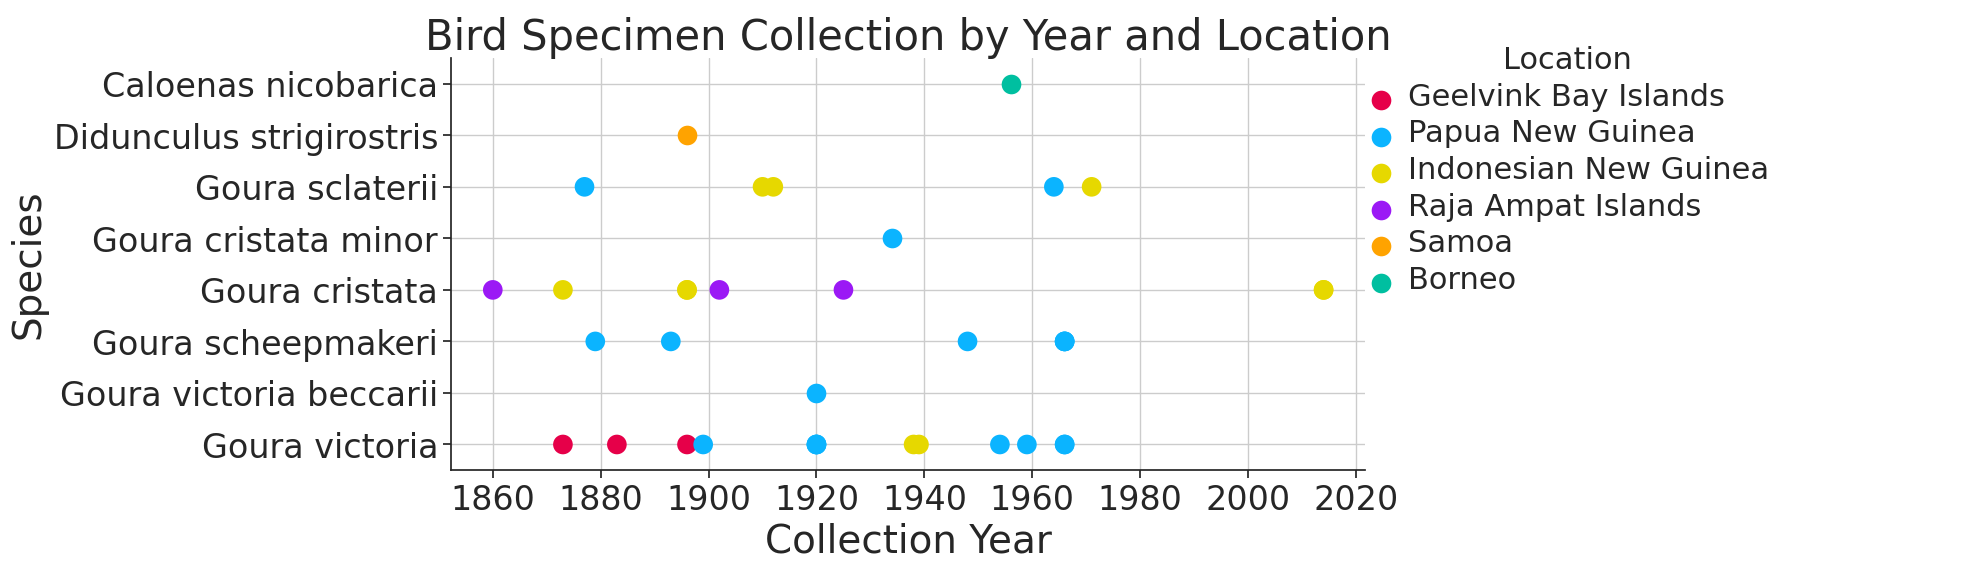
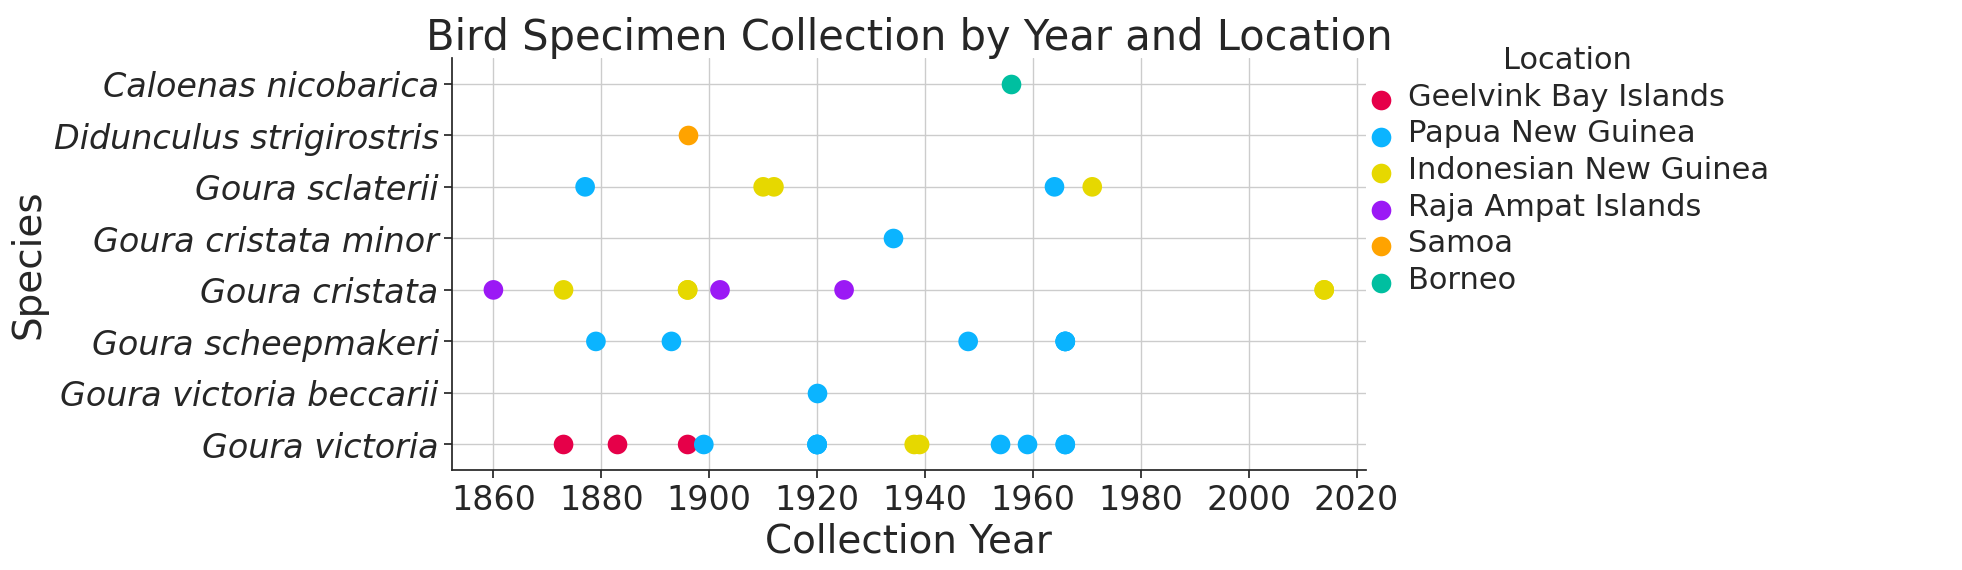
updated figures to have italicized species names

diff --git a/docs/pages/pigeon_conservation/README.md b/docs/pages/pigeon_conservation/README.md
@@ -31,7 +31,7 @@ This project focuses on the genomic analysis of crown pigeons (genus *Goura*), e
 *Figure 4: Detailed depiction of time-stamped Goura cristata sampling sites, including the oldest of the specimen included in the dataset, a Goura cristata collected by Alfred Russell Wallace assistant, Charles Martin Allen on Misool Island in 1860.*
 
 <p aling="center">
-    <img src="/docs/images/goura.cytb.tree.blue.200dpi.png" alt="Alt text for image" width="800" height="auto"/>
+    <img src="/docs/images/goura.cytb.tree.blue.220dpi.png" alt="Alt text for image" width="800" height="auto"/>
 </p>
 
 *Figure 5: A Consensus tree based on cytochrome b, annotated with sampling year and location of specimens, revealing subdivision between Goura sclaterii in the western part of New Guinea (Indonesia) and the eastern part (Papua New Guinea) - bottom right corner of the figure.*
